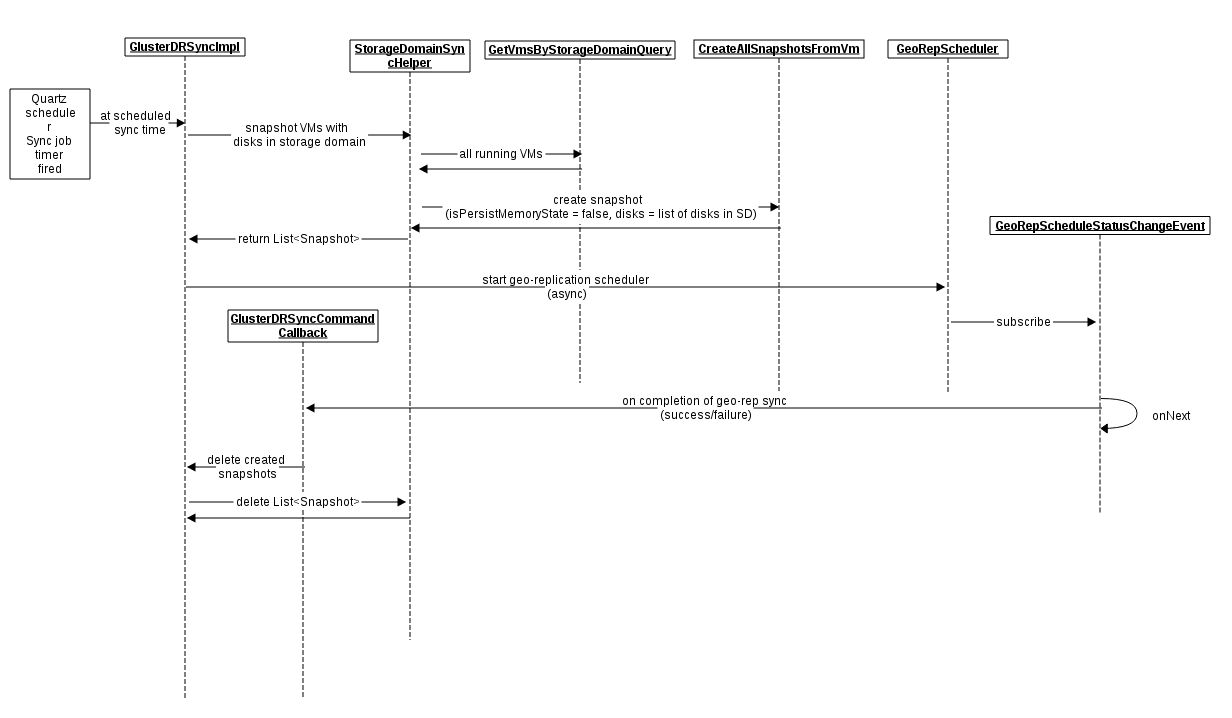
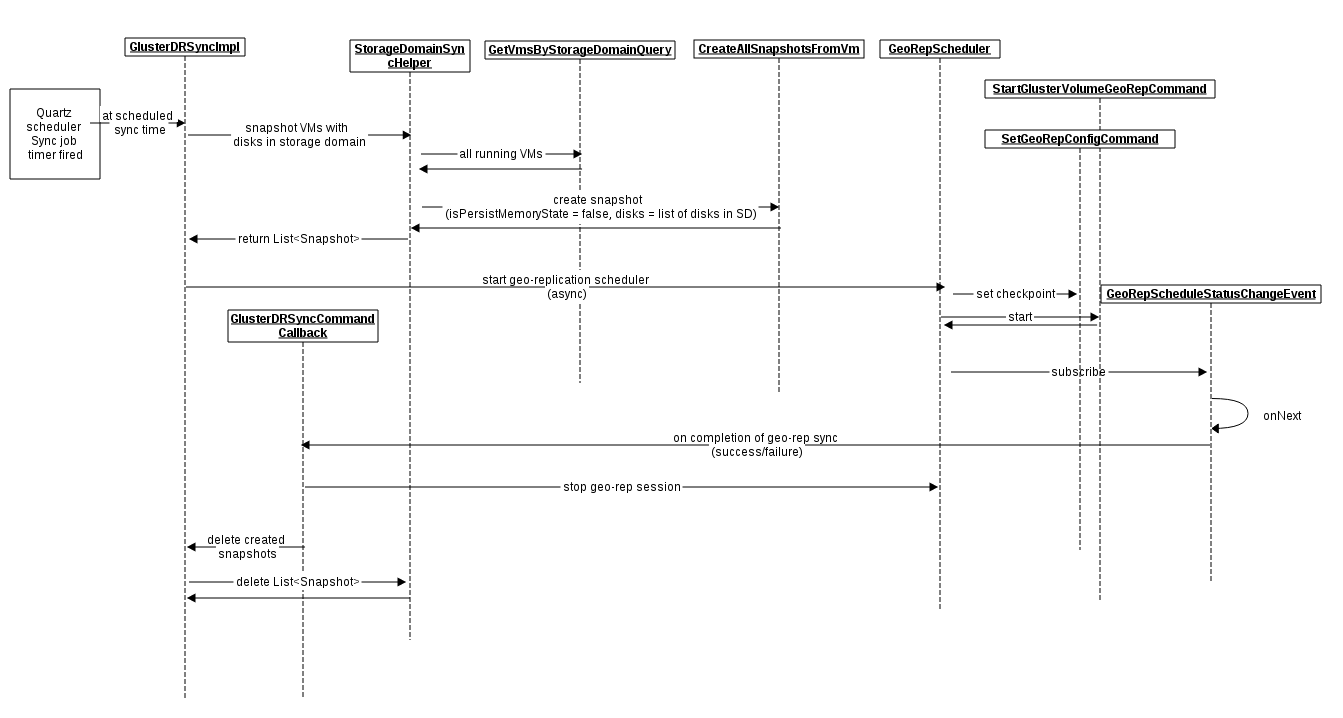
updated page with geo-rep steps

diff --git a/source/develop/release-management/features/gluster/gluster-dr.html.md b/source/develop/release-management/features/gluster/gluster-dr.html.md
@@ -22,12 +22,19 @@ feature_status: Design
 *   Status: Design
 *   Last updated date: 2 Sep 2016
 
+## Background
+
+There are currently DR and backup solutions available with oVirt, but these solutions either rely on backup agents running on the virtual machines or elaborate steps to configure and use the Backup APIs. In almost all cases, these rely on some third party software to sync the backed up content to a remote site. We need a fully integrated disaster recovery solution that is easy to setup and manage. In addition, the steps for recovery of data in case of disaster should be simple and clearly outlined.
+
+If using gluster as storage backend, there is no need for third party software, as gluster provides a way to sync data from one site to any other site (remote or local). This feature page aims to provide details for this integration
+
 ## Requirements
 
-* Provide a mirror of the oVirt DC to a secondary site at a different location, so that in case of disaster, the data at the secondary site can be used to bring the enviroment back online
-* The replication/mirroring of data is periodic which is configurable by the user. The replication interval will determine how far behind the data at the secondary site is. The solution does not aim to provide continuous data protection
-* Allow monitoring the progress/status of replication
-* DR solution should not affect the functioning of the oVirt deployment - that is, no performance hits, no VMs being stopped or paused.
+* Data to be mirrored/synced to a secondary site (at a remote location), so that in case of disaster, the data at the secondary site can be used to bring the enviroment back online
+* The data at secondary site should be in a consistent state and has to be recoverable.
+* The syncing of data should be periodic and user should be able to configure the frequency. This frequency will determine how far behind the data at secondary site is.
+* User should be able to monitor the progress/status of sync
+* The DR syncing process should not affect the functioning of the primary site - i.e, no downtime for guests
 
 ## Solution
 
@@ -36,9 +43,21 @@ feature_status: Design
 Gluster provides a way to replicate/mirror a gluster volume to another remote location using a feature called [Geo-replication](https://gluster.readthedocs.io/en/latest/Administrator%20Guide/Geo%20Replication/). This offers a continuous, asynchronous, and incremental replication service from one site to another over Local Area Networks (LANs), Wide Area Network (WANs), and across the Internet. Since glusterfs 3.7.9, there's a periodic geo-replication script available that will checkpoint the data at any given time and ensure all checkpointed data is replicted to configured secondary site.(known as `slave gluster volume` in gluster parlance)
 
 Since oVirt uses gluster volume as storage domains, we can make use of this feature to provide a DR solution for gluster storage domains.
-However, simply enabling geo-replication on gluster volumes used as storage domain will not suffice. Geo-replication will continue syncing all I/O even after the checkpoint time until all data at checkpoint has been transferred. This could lead to data inconsistencies at the secondary site. To avoid this and to ensure that all IO has been coalesced to disk before syncing to secondary site (or slave), we will need to take a snapshot of the VMs running on the storage domain. Any data that is written post the snapshot, though transferred to secondary site will be discarded as it is in a separate overlay image file.
+However, simply enabling geo-replication on gluster volumes used as storage domain will not ensure consistency of data. Geo-replication will continue syncing all I/O even after the checkpoint time until all data at checkpoint has been transferred. This could lead to data inconsistencies at the secondary site. To avoid this and to ensure that all IO has been coalesced to disk before syncing to secondary site (or slave), we will need to take a snapshot of the VMs running on the storage domain. Any data that is written post the snapshot, though transferred to secondary site will be discarded as it is in a separate overlay image file.
 
-If we were to perform the above via script, the steps would be:
+
+To setup disaster recovery, the first step is to configure geo-replication on gluster volume. This is a one-time activity. Master volume refers to the gluster volume used as storage domain at the primary site (source), and slave volume is the volume configured at secondary site (sync target). Steps to configure geo-replication is at [Geo-replication](https://gluster.readthedocs.io/en/latest/Administrator%20Guide/Geo%20Replication/).
+
+Some points to consider when setting up geo-replication
+
+* A slave volume is required for every gluster storage domain (aka gluster volume) that needs to be backed up
+* Slave volume and master volume need not be the same topology. This means that if the master volume is a replica 3 gluster volume, slave volume can be a distribute volume type
+* If sharding is enabled on the master volume, then the slave volume should also have sharding enabled. The shard block sizes at master and slave does not have to match, but it is recommended that they are the same.
+* Slave volume needs to have similar capacity as the master volume
+
+![Gluster-Geo-replication](gluster-dr-georep.png) 
+
+Once the geo-replication session is configured, following steps can be scripted to ensure periodic sync
 
 1. Establish connection to running oVirt engine 
 2. Query for list of running VMs
@@ -99,5 +118,8 @@ To integrate this solution better into oVirt and provide users a seamless way of
     - qrtz_job_id varchar *stores the quartz job created*
 
 ### Design changes
+
+* Scheduling of the DR sync process will use the Quartz scheduler internally. (ovirt-georep-backup script used crontab to achieve this - but could only be setup on one of the hosts and HA for schedule was an issue)
+* oVirt will orchestrate snapshotting the VMs, setting a geo-replication checkpoint, starting geo-replication, monitoring for checkpoint completion and deleting the snapshots created as part of process. Steps are detailed in the sequence diagram below
 
 ![DR-Sequence-Diagram](gluster-dr-seq-diagram.png)
